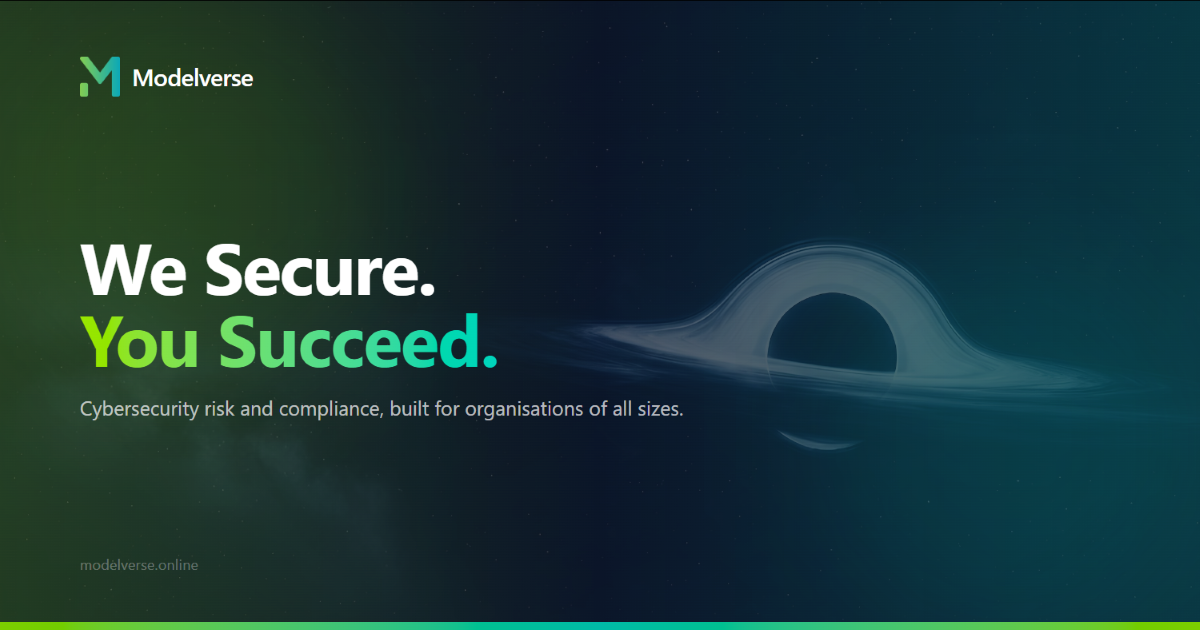
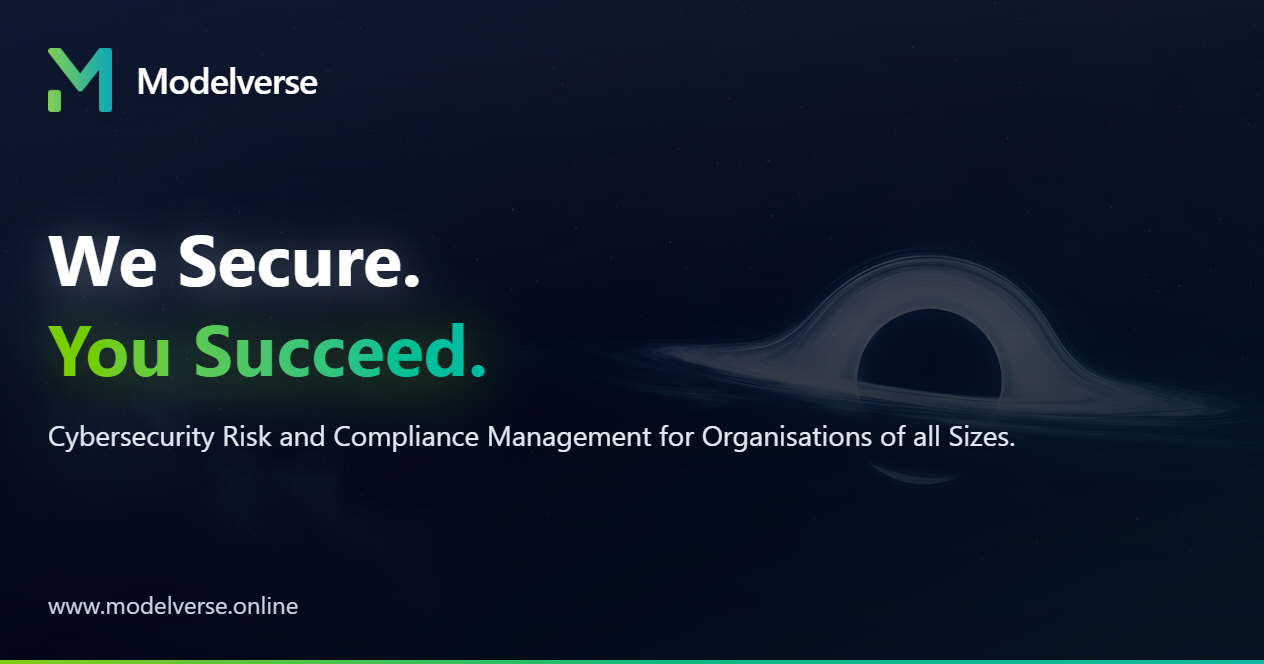
(update): added Michel to the team photos (#127)
* (feat): implemented feedback from Alexandra (#110)

* (feat): implemented feedback from Alexandra

* (fix): fixed green box animation platform page

---------

* (fix): translation error

* (update): added iso27001 badge & commented email test

* (fix): badges footer

* (fix): resolved merge issues 🥀🥀

* (update): testing branch merging

* (fix): removed testing branch merging code

* (feat): migrated website to next.js with added seo (#114)

* (feat): initial render working

* (feat): migrated files from Vite to Next.js

* (feat): full seo and complete migration

* (fix): SEO html content hierarchy and sitemap serving

* (update): added 404 page and hopefully fix sitemap.xml view 🥀

* (fix): added no-sniff to firebase config for correct display of the sitemap.xml

* (fix): please work sitemap 🥀

* (fix): added some more SEO improvements

* (fix): replace og-image to be accepted by whatsapp

* (fix): small package change

* (update): added platform status badge on the platform image

* (fix): greenbox sjorsieporsie 🥀

* (update): new blog post

* (fix): about page - took out Alexandra & fixed Maria's picture (#120)

* (feat): geo take 1 (#122)

* (update): init commit

* (feat): finished first iteration of GEO/SEO

---------

* (fix): links locale prefix

* (update): added llms-full.txt for geo

* (update): added website badge + small fix image home hero

* (update): added status page link

* (update): added Michel to the website team photos

---------

Pull request: (update): added Michel to the team photos

diff --git a/src/app/_content/about.tsx b/src/app/_content/about.tsx
@@ -86,6 +86,7 @@ export function AboutContent() {
           Lili: '/images/team/lili.jpg',
           Maria: '/images/team/maria.jpg',
           Mariona: '/images/team/mariona.jpg',
+          Michel: '/images/team/michel.jpg',
           Matei: '/images/team/matei.jpg',
           Reshma: '/images/team/reshma.jpg',
           Sjors: '/images/team/sjors.jpg',
@@ -265,6 +266,7 @@ export function AboutContent() {
               </p>
             </motion.div>
 
+            {/* Old version */}
             <motion.div
               variants={staggerContainer}
               className="grid max-w-7xl grid-cols-1 gap-4 self-center md:grid-cols-3 lg:grid-cols-10"
@@ -308,6 +310,47 @@ export function AboutContent() {
                 </motion.div>
               ))}
             </motion.div>
+
+            {/* New version */}
+            {/* <motion.div
+              variants={staggerContainer}
+              className="mx-auto flex max-w-6xl flex-wrap justify-center gap-4"
+            >
+              {teamMembers.map((member, index) => (
+                <motion.div variants={scaleIn} key={index} className="max-w-64">
+                  <Card className="size-full bg-white/5 p-0 hover:border-lime-500/50 hover:bg-white/10">
+                    <img
+                      src={member.image}
+                      className="rounded-t-xl"
+                      alt={member.name}
+                    />
+                    <div className="flex grow flex-col p-4">
+                      <h3 className="mb-2 text-lg">{member.name}</h3>
+                      <p className="mb-4 bg-linear-to-r from-lime-500 to-teal-500 bg-clip-text font-semibold text-transparent">
+                        {member.role}
+                      </p>
+                      <p className="mb-4 text-left text-white/70">
+                        {member.bio}
+                      </p>
+                      <div className="flex grow flex-row items-end gap-2">
+                        <a
+                          href={member.linkedin}
+                          className="flex w-fit items-center justify-center rounded-xl border border-white/20 bg-white/10 p-2 transition-colors duration-300 hover:bg-white/20"
+                        >
+                          <LinkedinIcon className="size-6" />
+                        </a>
+                        <a
+                          href={member.mail}
+                          className="flex w-fit items-center justify-center rounded-xl border border-white/20 bg-white/10 p-2 transition-colors duration-300 hover:bg-white/20"
+                        >
+                          <Mail className="size-6" />
+                        </a>
+                      </div>
+                    </div>
+                  </Card>
+                </motion.div>
+              ))}
+            </motion.div> */}
           </motion.div>
 
           {/* Ambassadors */}